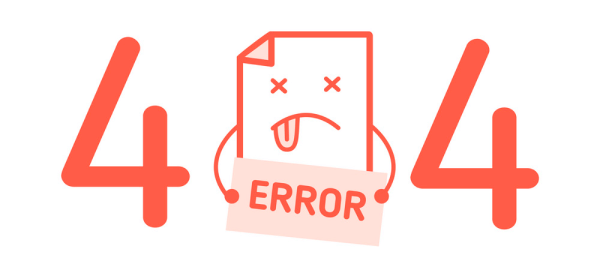
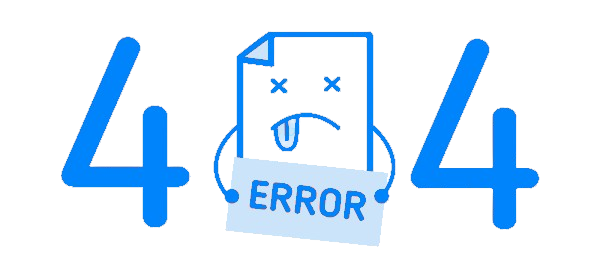
update notfoundpage

Changed region(s): [[0.09, 0.0899, 0.9, 0.9288], [0.45, 0.4195, 0.57, 0.5693], [0.54, 0.2697, 0.57, 0.3596]]

diff --git a/src/pages/NotFoundPage/NotFoundPage.jsx b/src/pages/NotFoundPage/NotFoundPage.jsx
@@ -1,14 +1,23 @@
 import React from "react";
+import { Button, Image } from "antd";
+import notfoundpage from "../../assets/images/404.png";
+import { WrapperNotFoundPage, WrapperTextNotFound, WrapperTextNotFoundSmall } from "./style";
+import ButtonComponent from "../../components/ButtonComponent/ButtonComponent";
+import { Link } from "react-router-dom";
 
 const NotFoundPage = () => {
   return (
-    <div>
-      <img
-        src="https://bizweb.dktcdn.net/100/472/913/themes/888429/assets/404.png?1725935235961"
-        alt="404"
-      ></img>
-      
-    </div>
+    <WrapperNotFoundPage>
+      <Image src={notfoundpage} alt="404" preview={false} />
+      <WrapperTextNotFound>TRANG KHÔNG ĐƯỢC TÌM THẤY</WrapperTextNotFound>
+      <WrapperTextNotFoundSmall>
+        <p>Thật tiếc! Trang của bạn yêu cầu không tồn tại.</p>
+        <p>Vui lòng thử với một trang khác hoặc liên hệ để được hỗ trợ nhé!</p>
+      </WrapperTextNotFoundSmall>
+      <Link to="/">
+        <ButtonComponent size="large" textButton={"Về trang chủ"} />
+      </Link>
+    </WrapperNotFoundPage>
   );
 };
 

diff --git a/src/pages/NotFoundPage/style.js b/src/pages/NotFoundPage/style.js
@@ -1,0 +1,23 @@
+import styled from "styled-components";
+
+export const WrapperNotFoundPage = styled.div`
+    display: flex;
+    flex-direction: column;
+    justify-content: center;
+    align-items: center;
+    height: 100vh;
+    background-color: #efefef;
+`
+export const WrapperTextNotFound = styled.div`
+    font-size: 30px;
+    font-weight: 400;
+    margin: 40px 0 8px;
+    color: #333;
+`
+export const WrapperTextNotFoundSmall = styled.div`
+    font-size: 16px;
+    font-weight: 400;
+    margin: 0 0 16px;
+    color: #727272;
+    text-align: center;
+`

diff --git a/src/components/FooterComponent/FooterComponent.jsx b/src/components/FooterComponent/FooterComponent.jsx
@@ -10,7 +10,7 @@ const FooterComponent = () => {
       <Col span={6}>
         <div>
             <h3>Thông tin liên hệ</h3>
-            <p>Địa chỉ: 19 Nguyễn Hữu Thọ, Tân Hưng, Quận 7, Hồ Chí Minh</p>
+            <p>Địa chỉ: 19 Nguyễn Hữu Thọ, Tân Hưng, Quận 7, HCM</p>
             <p>Hotline: 0909 090 909</p>
             <p>Email: vdstore8386@gmail.com</p>
         </div>

diff --git a/src/routes/index.js b/src/routes/index.js
@@ -28,7 +28,7 @@ const routes = [
     }
     ,
     {
-        path: '/:type',
+        path: '/type',
         page: TypeProductPage,
         isShowHeader: true,
 
